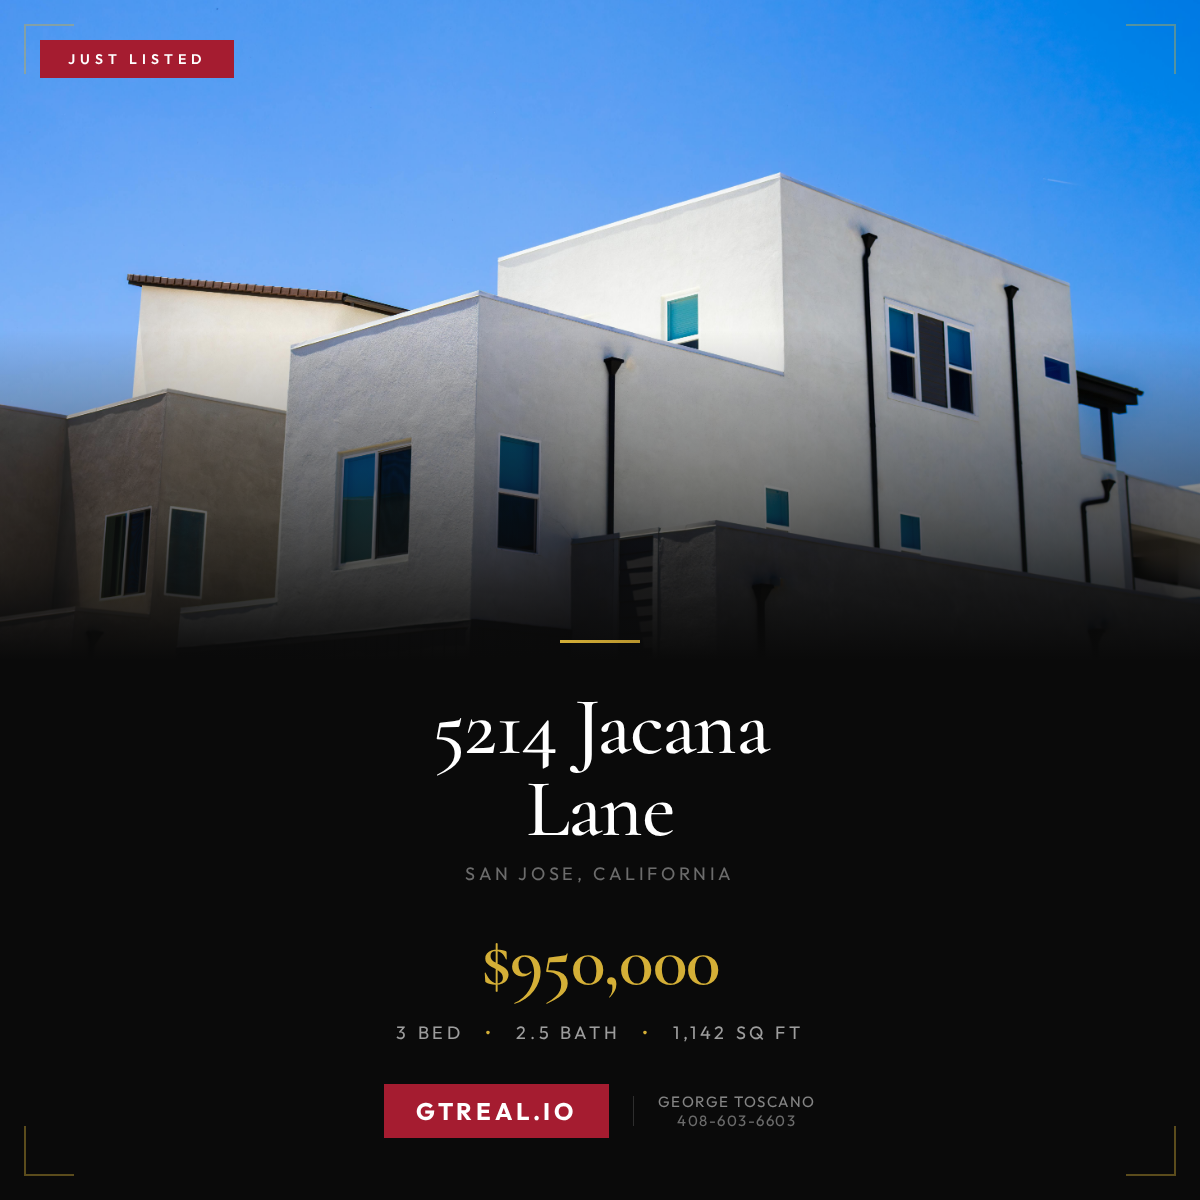
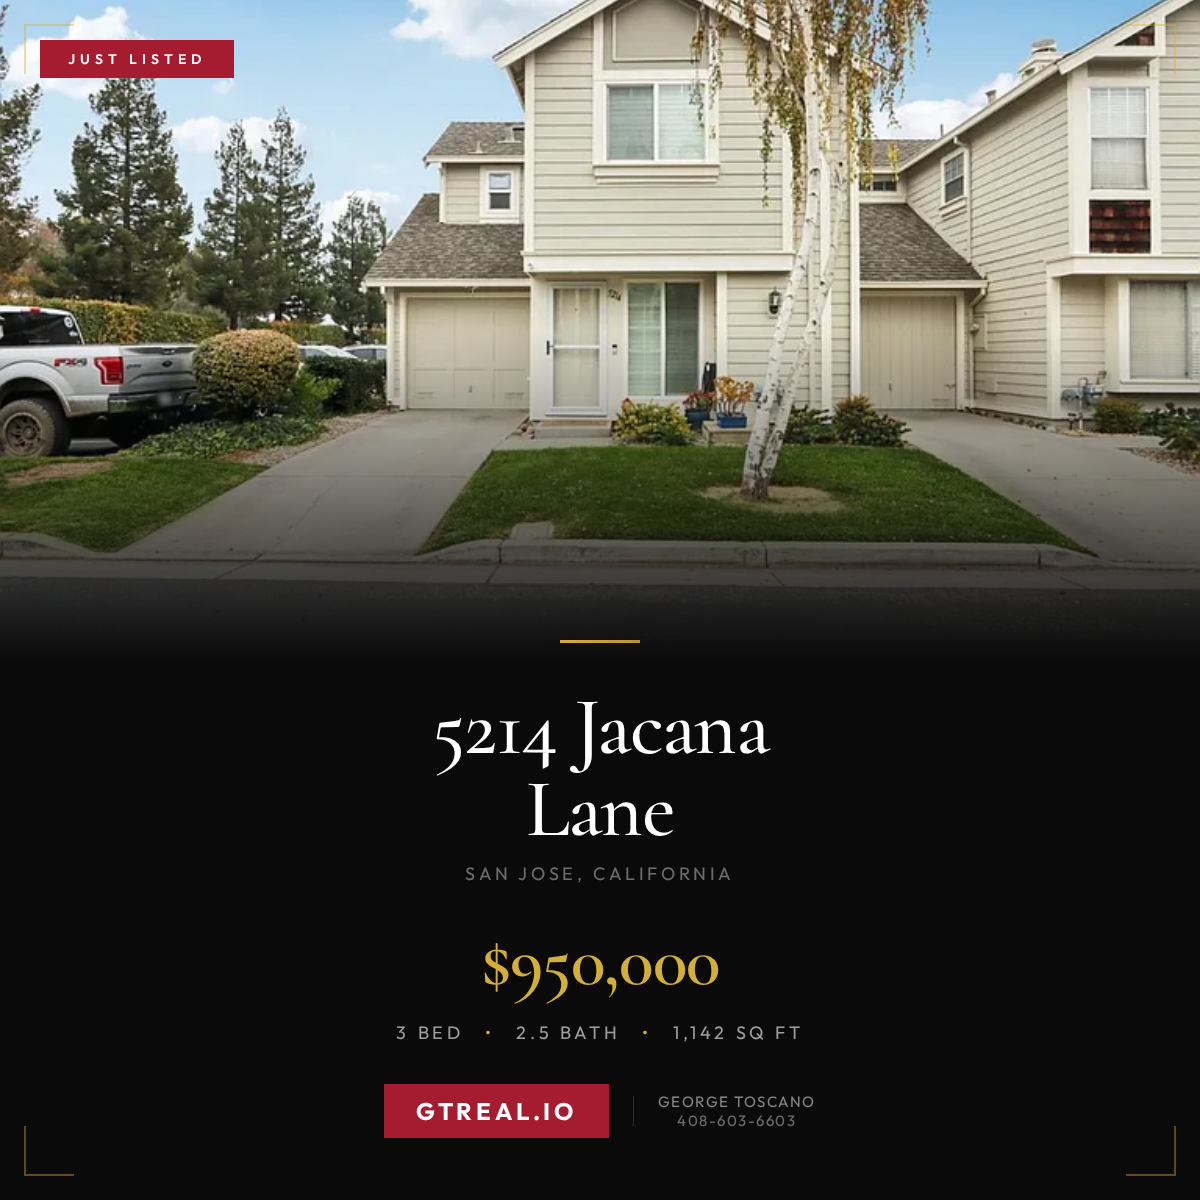
auto-commit for 90a2c016-106b-43b0-81c3-17d193ad5880

diff --git a/frontend/src/App.js b/frontend/src/App.js
@@ -548,8 +548,8 @@ const LanguageProvider = ({ children }) => {
 // Actual property images from uploaded assets + hero image we're keeping
 const PROPERTY_IMAGES = [
   {
-    url: "https://images.pexels.com/photos/16787444/pexels-photo-16787444.png",
-    alt: "Contemporary home exterior",
+    url: "https://customer-assets.emergentagent.com/job_luxury-home-showcase-1/artifacts/9eaxu7ts_eaf224eb1751e8f11ed9d12eed9b2e95-cc_ft_768.webp",
+    alt: "5214 Jacana Lane exterior street view",
     category: "exterior"
   },
   {
@@ -559,11 +559,6 @@ const PROPERTY_IMAGES = [
   },
   {
     url: "https://customer-assets.emergentagent.com/job_luxury-home-showcase-1/artifacts/ty2w647j_9b23ab2f6f901c9ab26d0ff958688091-cc_ft_768.webp",
-    alt: "Property exterior street view",
-    category: "exterior"
-  },
-  {
-    url: "https://customer-assets.emergentagent.com/job_luxury-home-showcase-1/artifacts/9eaxu7ts_eaf224eb1751e8f11ed9d12eed9b2e95-cc_ft_768.webp",
     alt: "In-unit washer and dryer",
     category: "laundry"
   },
@@ -1257,9 +1252,9 @@ const GallerySection = () => {
           {t('everyRoom')}
         </h2>
 
-        {/* Bento Grid - now with 5 images */}
+        {/* Bento Grid - 4 actual property photos */}
         <div className="grid grid-cols-2 md:grid-cols-4 gap-1">
-          {/* Large image - exterior */}
+          {/* Large image - actual exterior */}
           <div className="col-span-2 row-span-2 overflow-hidden group">
             <img
               src={PROPERTY_IMAGES[0].url}
@@ -1268,15 +1263,15 @@ const GallerySection = () => {
               style={{ minHeight: '400px' }}
             />
           </div>
-          {/* Living room */}
-          <div className="overflow-hidden group">
+          {/* Living room with fireplace */}
+          <div className="col-span-2 md:col-span-1 overflow-hidden group">
             <img
               src={PROPERTY_IMAGES[1].url}
               alt={PROPERTY_IMAGES[1].alt}
               className="w-full h-48 md:h-full object-cover img-grayscale group-hover:scale-105 transition-all duration-500"
             />
           </div>
-          {/* Exterior street view */}
+          {/* Laundry */}
           <div className="overflow-hidden group">
             <img
               src={PROPERTY_IMAGES[2].url}
@@ -1284,19 +1279,11 @@ const GallerySection = () => {
               className="w-full h-48 md:h-full object-cover img-grayscale group-hover:scale-105 transition-all duration-500"
             />
           </div>
-          {/* Laundry */}
-          <div className="overflow-hidden group">
+          {/* Living room another view */}
+          <div className="col-span-2 md:col-span-1 overflow-hidden group">
             <img
               src={PROPERTY_IMAGES[3].url}
               alt={PROPERTY_IMAGES[3].alt}
-              className="w-full h-48 md:h-full object-cover img-grayscale group-hover:scale-105 transition-all duration-500"
-            />
-          </div>
-          {/* Living room another view */}
-          <div className="overflow-hidden group">
-            <img
-              src={PROPERTY_IMAGES[4].url}
-              alt={PROPERTY_IMAGES[4].alt}
               className="w-full h-48 md:h-full object-cover img-grayscale group-hover:scale-105 transition-all duration-500"
             />
           </div>

diff --git a/frontend/public/og-image.html b/frontend/public/og-image.html
@@ -197,7 +197,7 @@
   <!-- Property Photo - Top Half -->
   <div class="photo-section">
     <div class="badge"><p>Just Listed</p></div>
-    <img src="https://images.pexels.com/photos/16787444/pexels-photo-16787444.png" alt="5214 Jacana Lane">
+    <img src="https://customer-assets.emergentagent.com/job_luxury-home-showcase-1/artifacts/9eaxu7ts_eaf224eb1751e8f11ed9d12eed9b2e95-cc_ft_768.webp" alt="5214 Jacana Lane">
     <div class="photo-fade"></div>
   </div>
   
